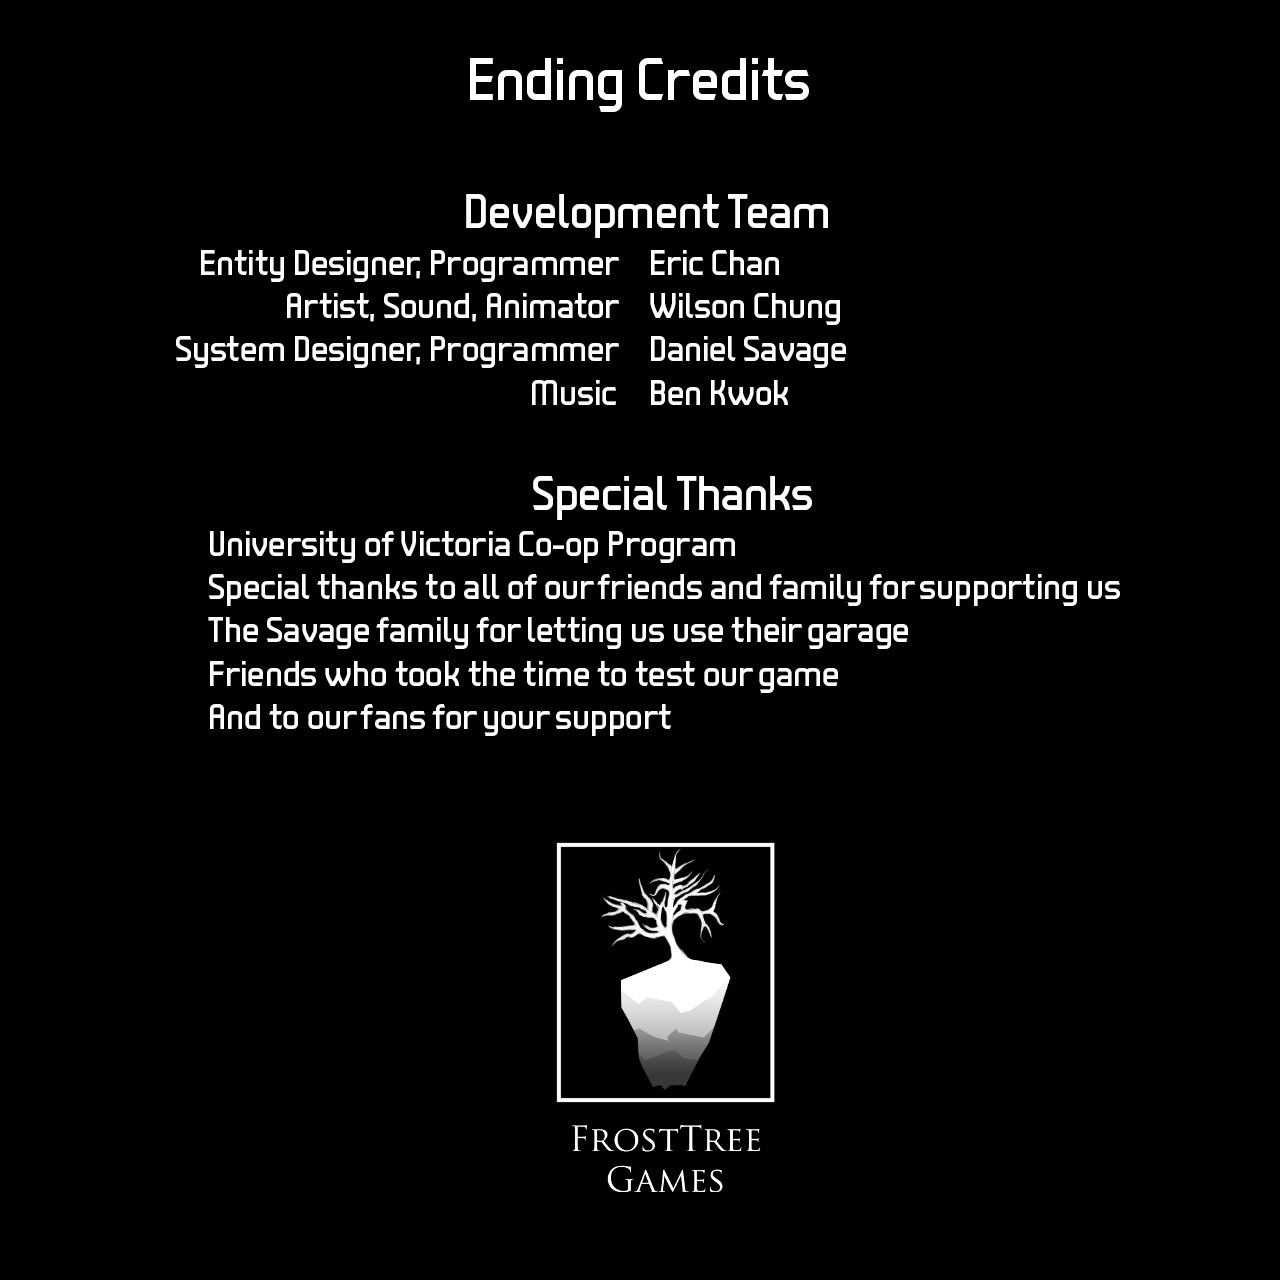
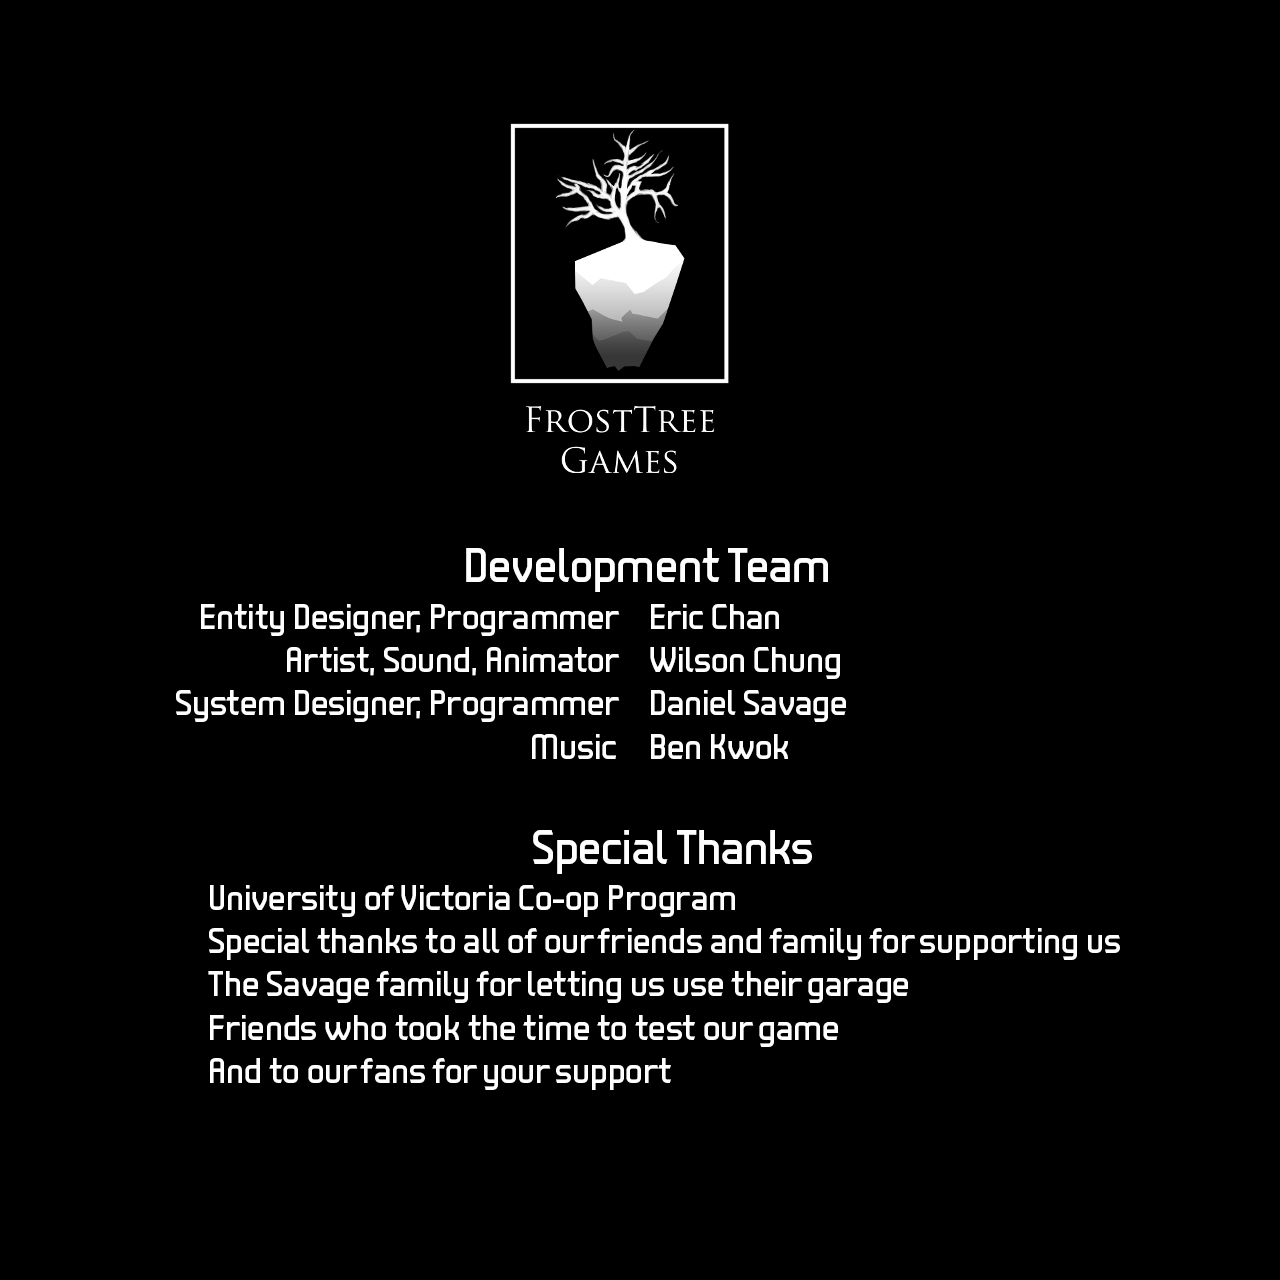
changed the end credits and added a place for options menu to access the credits

Changed region(s): [[0.125, 0.0312, 0.875, 0.5938], [0.1562, 0.6562, 0.875, 0.9375]]

diff --git a/PattyPetitGiant/PattyPetitGiant/PattyPetitGiant/TitleScreen.cs b/PattyPetitGiant/PattyPetitGiant/PattyPetitGiant/TitleScreen.cs
@@ -70,7 +70,7 @@ namespace PattyPetitGiant
         private List<TitleMenuOptions> menu_list;
         private titleScreens screen;
 
-        private Vector2 text_position = new Vector2(960, 514);
+        private Vector2 text_position = new Vector2(GlobalGameConstants.GameResolutionWidth/2 - 48, 514);
         private Vector3 model_position = Vector3.Zero;
         private Vector3 camera_Position = new Vector3(0.0f, 0, 5000.0f);
 
@@ -84,8 +84,8 @@ namespace PattyPetitGiant
         private float fade = 0.0f;
         private float fade_duration = 0.0f;
 
-        private const float max_fade_timer = 750f;
-        private const float logo_stay_timer = 2000.0f;
+        private const float max_fade_timer = 1500f;
+        private const float logo_stay_timer = 4000f;
         private const float max_fade_menu_timer = 1000f;
 
         private Texture2D videoTexture;
@@ -354,6 +354,9 @@ namespace PattyPetitGiant
             AnimationLib.GraphicsDevice.Clear(Color.Black);
             
             sb.Begin();
+
+            Console.WriteLine("Rendering Screen");
+
             if (screen == titleScreens.menuScreen || screen == titleScreens.playScreen || screen == titleScreens.optionScreen)
             {
                 if (Game1.videoPlayer.State != Microsoft.Xna.Framework.Media.MediaState.Stopped)
@@ -380,7 +383,7 @@ namespace PattyPetitGiant
                     {
                         for (int i = 0; i < menu_list.Count(); i++)
                         {
-                            sb.DrawString(Game1.font, menu_list[i].text, text_position + new Vector2((25 * menu_list[i].z_distance), 32 * i), fadeTextColour, 0.0f, Vector2.Zero, 1.3f, SpriteEffects.None, 0.5f);
+                            sb.DrawString(Game1.tenbyFive24, menu_list[i].text, text_position + new Vector2((25 * menu_list[i].z_distance), 32 * i), Color.White, 0.0f, Vector2.Zero, 1.0f, SpriteEffects.None, 0.5f);
                         }
                     }
                     else

diff --git a/PattyPetitGiant/PattyPetitGiant/PattyPetitGiant/OptionsMenu.cs b/PattyPetitGiant/PattyPetitGiant/PattyPetitGiant/OptionsMenu.cs
@@ -161,6 +161,8 @@ namespace PattyPetitGiant
         private bool pop_up_menu = false;
         private bool pop_up_screen = false;
 
+        private const string menuBlipSound = "menuSelect";
+
         private Vector2 text_position = new Vector2(GlobalGameConstants.GameResolutionWidth / 2 - 128, GlobalGameConstants.GameResolutionHeight / 2 - 96);
         private Vector2 popup_position = new Vector2(GlobalGameConstants.GameResolutionWidth / 2 - 64, GlobalGameConstants.GameResolutionHeight / 2);
 
@@ -222,7 +224,7 @@ namespace PattyPetitGiant
                 {
                     button_pressed_timer = 0.0f;
                     down_pressed = false;
-
+                    AudioLib.playSoundEffect(menuBlipSound);
                     menu_item_select++;
 
                     if (menu_item_select >= options_list.Count())
@@ -247,7 +249,7 @@ namespace PattyPetitGiant
                 {
                     button_pressed_timer = 0.0f;
                     up_pressed = false;
-
+                    AudioLib.playSoundEffect(menuBlipSound);
                     menu_item_select--;
 
                     if (menu_item_select > 0)
